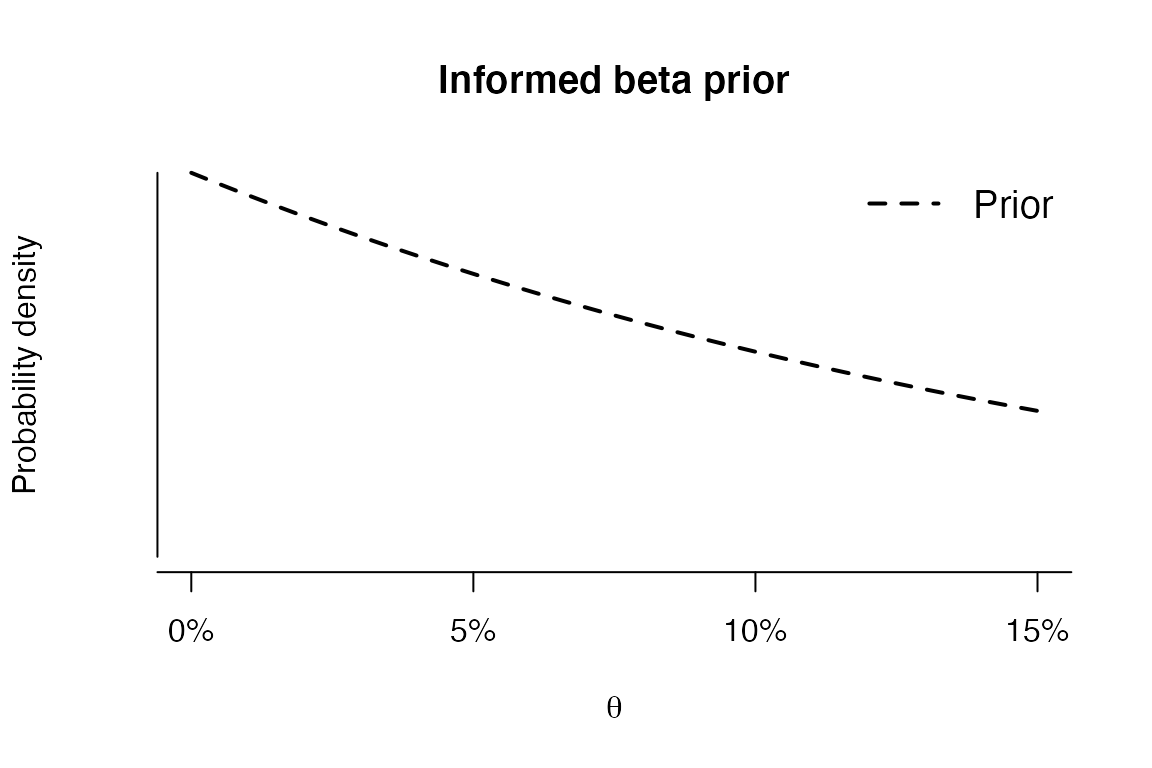
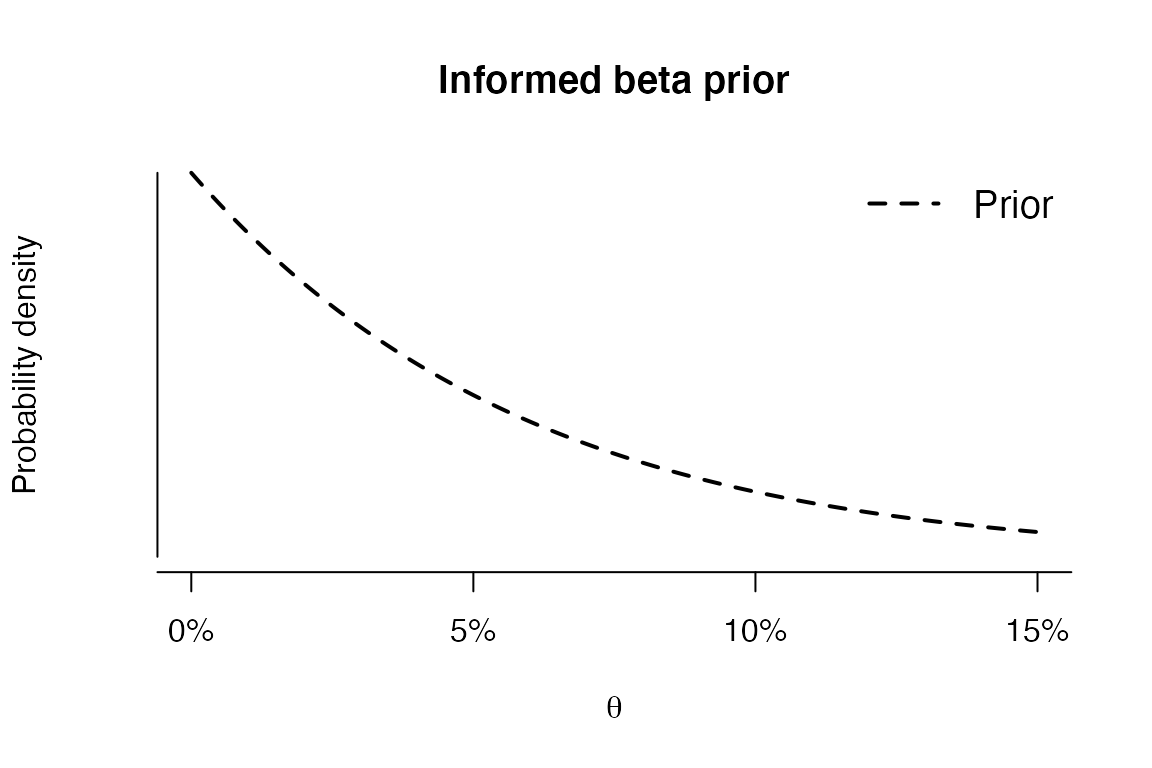
Built site for jfa: 0.5.0@de6957b

diff --git a/articles/priorDistributions.html b/articles/priorDistributions.html
@@ -114,9 +114,10 @@
 <span class="va">likelihood</span> <span class="op">&lt;-</span> <span class="st">"binomial"</span>  <span class="co"># Binomial likelihood</span>
 <span class="va">materiality</span> <span class="op">&lt;-</span> <span class="fl">0.05</span>       <span class="co"># Performance materiality of 5%</span>
 <span class="va">expectedError</span> <span class="op">&lt;-</span> <span class="fl">0</span>        <span class="co"># Zero errors expected in sample</span></code></pre></div>
-<div id="no-explicit-information-method-none-default" class="section level3">
+<div id="default-no-explicit-information-method-none" class="section level3">
 <h3 class="hasAnchor">
-<a href="#no-explicit-information-method-none-default" class="anchor"></a>No explicit information (<code>method = "none"</code>; default)</h3>
+<a href="#default-no-explicit-information-method-none" class="anchor"></a>[Default] No explicit information (<code>method = "none"</code>)</h3>
+<p>You can refrain from incorporating explicit information in the prior distribution, and still use Bayesian statistics, using <code>method = none</code>. As an example, the code below incorporates no explicit information into a prior distribution</p>
 <div class="sourceCode" id="cb2"><pre class="downlit sourceCode r">
 <code class="sourceCode R"><span class="va">prior1</span> <span class="op">&lt;-</span> <span class="fu"><a href="../reference/auditPrior.html">auditPrior</a></span><span class="op">(</span>confidence <span class="op">=</span> <span class="va">confidence</span>, likelihood <span class="op">=</span> <span class="va">likelihood</span>, expectedError <span class="op">=</span> <span class="va">expectedError</span>,
                      materiality <span class="op">=</span> <span class="va">materiality</span>, method <span class="op">=</span> <span class="st">"none"</span><span class="op">)</span>
@@ -145,6 +146,7 @@
 ## # Mean:                    0.5 
 ## # Median:                  0.5 
 ## # ------------------------------------------------------------</code></pre>
+<p>You can visually inspect the prior distribution using the <code><a href="https://rdrr.io/r/graphics/plot.default.html">plot()</a></code> function.</p>
 <div class="sourceCode" id="cb4"><pre class="downlit sourceCode r">
 <code class="sourceCode R"><span class="fu"><a href="https://rdrr.io/r/graphics/plot.default.html">plot</a></span><span class="op">(</span><span class="va">prior1</span><span class="op">)</span></code></pre></div>
 <p><img src="priorDistributions_files/figure-html/unnamed-chunk-3-1.png" width="576"></p>
@@ -152,9 +154,10 @@
 <div id="audit-risk-model-method-arm" class="section level3">
 <h3 class="hasAnchor">
 <a href="#audit-risk-model-method-arm" class="anchor"></a>Audit Risk Model (<code>method = "arm"</code>)</h3>
+<p>You can incorporate the risk assessments from the Audit Risk Model (inherent risk and internal control risk) using <code>method = "arm</code> in combination with the <code>ir</code> and <code>cr</code> arguments. As an example, the code below incorporates the information that the inherent risk is equal to 90% and that the internal control risk is equal to 60% into a prior distribution.</p>
 <div class="sourceCode" id="cb5"><pre class="downlit sourceCode r">
 <code class="sourceCode R"><span class="va">prior2</span> <span class="op">&lt;-</span> <span class="fu"><a href="../reference/auditPrior.html">auditPrior</a></span><span class="op">(</span>confidence <span class="op">=</span> <span class="va">confidence</span>, likelihood <span class="op">=</span> <span class="va">likelihood</span>, expectedError <span class="op">=</span> <span class="va">expectedError</span>,
-                     materiality <span class="op">=</span> <span class="va">materiality</span>, method <span class="op">=</span> <span class="st">"arm"</span>, ir <span class="op">=</span> <span class="fl">1</span>, cr <span class="op">=</span> <span class="fl">0.6</span><span class="op">)</span>
+                     materiality <span class="op">=</span> <span class="va">materiality</span>, method <span class="op">=</span> <span class="st">"arm"</span>, ir <span class="op">=</span> <span class="fl">0.9</span>, cr <span class="op">=</span> <span class="fl">0.6</span><span class="op">)</span>
 <span class="va">prior2</span></code></pre></div>
 <pre><code>## # ------------------------------------------------------------
 ## #         jfa Prior Distribution Summary (Bayesian)
@@ -164,22 +167,23 @@
 ## # Confidence:              95%    
 ## # Expected sample errors:  0%       
 ## # Likelihood:              binomial 
-## # Specifics:               Inherent risk = 1; Internal control risk = 0.6; Detection risk = 0.08 
+## # Specifics:               Inherent risk = 0.9; Internal control risk = 0.6; Detection risk = 0.09 
 ## # ------------------------------------------------------------
 ## # Output: 
 ## #
-## # Prior distribution:      beta(α = 1, β = 11) 
-## # Implicit sample size:    10 
+## # Prior distribution:      beta(α = 1, β = 13) 
+## # Implicit sample size:    12 
 ## # Implicit errors:         0 
 ## # ------------------------------------------------------------
 ## # Statistics: 
 ## #
-## # Upper bound:             0.24 
-## # Precision:               0.24 
+## # Upper bound:             0.21 
+## # Precision:               0.21 
 ## # Mode:                    0 
-## # Mean:                    0.08 
-## # Median:                  0.06 
+## # Mean:                    0.07 
+## # Median:                  0.05 
 ## # ------------------------------------------------------------</code></pre>
+<p>You can visually inspect the prior distribution using the <code><a href="https://rdrr.io/r/graphics/plot.default.html">plot()</a></code> function.</p>
 <div class="sourceCode" id="cb7"><pre class="downlit sourceCode r">
 <code class="sourceCode R"><span class="fu"><a href="https://rdrr.io/r/graphics/plot.default.html">plot</a></span><span class="op">(</span><span class="va">prior2</span><span class="op">)</span></code></pre></div>
 <p><img src="priorDistributions_files/figure-html/unnamed-chunk-5-1.png" width="576"></p>
@@ -187,6 +191,8 @@
 <div id="equal-prior-probabilities-method-median" class="section level3">
 <h3 class="hasAnchor">
 <a href="#equal-prior-probabilities-method-median" class="anchor"></a>Equal prior probabilities (<code>method = "median"</code>)</h3>
+<p>You can incorporate the assumption that tolerable misstatement is equally likely as intolerable misstatement using <code>method = "median"</code>. As an example, the code below incorporates this assumption into a prior distribution.</p>
+<p><em>Note: This method requires that you specify a value for the <code>materiality</code>.</em></p>
 <div class="sourceCode" id="cb8"><pre class="downlit sourceCode r">
 <code class="sourceCode R"><span class="va">prior3</span> <span class="op">&lt;-</span> <span class="fu"><a href="../reference/auditPrior.html">auditPrior</a></span><span class="op">(</span>confidence <span class="op">=</span> <span class="va">confidence</span>, likelihood <span class="op">=</span> <span class="va">likelihood</span>, expectedError <span class="op">=</span> <span class="va">expectedError</span>,
                      materiality <span class="op">=</span> <span class="va">materiality</span>, method <span class="op">=</span> <span class="st">"median"</span><span class="op">)</span>
@@ -215,6 +221,7 @@
 ## # Mean:                    0.07 
 ## # Median:                  0.05 
 ## # ------------------------------------------------------------</code></pre>
+<p>You can visually inspect the prior distribution using the <code><a href="https://rdrr.io/r/graphics/plot.default.html">plot()</a></code> function.</p>
 <div class="sourceCode" id="cb10"><pre class="downlit sourceCode r">
 <code class="sourceCode R"><span class="fu"><a href="https://rdrr.io/r/graphics/plot.default.html">plot</a></span><span class="op">(</span><span class="va">prior3</span><span class="op">)</span></code></pre></div>
 <p><img src="priorDistributions_files/figure-html/unnamed-chunk-7-1.png" width="576"></p>
@@ -222,9 +229,11 @@
 <div id="custom-prior-probabilities-method-hypotheses" class="section level3">
 <h3 class="hasAnchor">
 <a href="#custom-prior-probabilities-method-hypotheses" class="anchor"></a>Custom prior probabilities (<code>method = "hypotheses"</code>)</h3>
+<p>You can assign custom probabilities to the hypothesis of tolerable misstatement (using <code>pHmin</code>) and/or the hypotheses of intolerable misstatement (using <code>pHplus</code>) in combination with <code>method = "hypotheses</code>. As an example, the code below incorporates the information that the hypothesis of tolerable misstatement has a probability of 60% into a prior distribution.</p>
+<p><em>Note: This method requires that you specify a value for the <code>materiality</code> and that the expected errors are zero.</em></p>
 <div class="sourceCode" id="cb11"><pre class="downlit sourceCode r">
 <code class="sourceCode R"><span class="va">prior4</span> <span class="op">&lt;-</span> <span class="fu"><a href="../reference/auditPrior.html">auditPrior</a></span><span class="op">(</span>confidence <span class="op">=</span> <span class="va">confidence</span>, likelihood <span class="op">=</span> <span class="va">likelihood</span>, expectedError <span class="op">=</span> <span class="va">expectedError</span>,
-                     materiality <span class="op">=</span> <span class="va">materiality</span>, method <span class="op">=</span> <span class="st">"hypotheses"</span>, pHmin <span class="op">=</span> <span class="fl">0.3</span><span class="op">)</span>
+                     materiality <span class="op">=</span> <span class="va">materiality</span>, method <span class="op">=</span> <span class="st">"hypotheses"</span>, pHmin <span class="op">=</span> <span class="fl">0.6</span><span class="op">)</span>
 <span class="va">prior4</span></code></pre></div>
 <pre><code>## # ------------------------------------------------------------
 ## #         jfa Prior Distribution Summary (Bayesian)
@@ -234,22 +243,23 @@
 ## # Confidence:              95%    
 ## # Expected sample errors:  0%       
 ## # Likelihood:              binomial 
-## # Specifics:               p(Θ &lt; 0.05) = 0.3; p(Θ &gt; 0.05) = 0.7 
+## # Specifics:               p(Θ &lt; 0.05) = 0.6; p(Θ &gt; 0.05) = 0.4 
 ## # ------------------------------------------------------------
 ## # Output: 
 ## #
-## # Prior distribution:      beta(α = 1, β = 6.954) 
-## # Implicit sample size:    5.95 
+## # Prior distribution:      beta(α = 1, β = 17.864) 
+## # Implicit sample size:    16.86 
 ## # Implicit errors:         0 
 ## # ------------------------------------------------------------
 ## # Statistics: 
 ## #
-## # Upper bound:             0.35 
-## # Precision:               0.35 
+## # Upper bound:             0.15 
+## # Precision:               0.15 
 ## # Mode:                    0 
-## # Mean:                    0.13 
-## # Median:                  0.09 
+## # Mean:                    0.05 
+## # Median:                  0.04 
 ## # ------------------------------------------------------------</code></pre>
+<p>You can visually inspect the prior distribution using the <code><a href="https://rdrr.io/r/graphics/plot.default.html">plot()</a></code> function.</p>
 <div class="sourceCode" id="cb13"><pre class="downlit sourceCode r">
 <code class="sourceCode R"><span class="fu"><a href="https://rdrr.io/r/graphics/plot.default.html">plot</a></span><span class="op">(</span><span class="va">prior4</span><span class="op">)</span></code></pre></div>
 <p><img src="priorDistributions_files/figure-html/unnamed-chunk-9-1.png" width="576"></p>
@@ -257,6 +267,7 @@
 <div id="earlier-sample-method-sample" class="section level3">
 <h3 class="hasAnchor">
 <a href="#earlier-sample-method-sample" class="anchor"></a>Earlier sample (<code>method = "sample"</code>)</h3>
+<p>You can incorporate information from an earlier sample into the prior distribution using <code>method = "sample</code> in combination with <code>sampleN</code> and <code>sampleK</code>. As an example, the code below incorporates the information from an earlier sample of 30 transactions, in which 0 misstatements were found, into a prior distribution.</p>
 <div class="sourceCode" id="cb14"><pre class="downlit sourceCode r">
 <code class="sourceCode R"><span class="va">prior5</span> <span class="op">&lt;-</span> <span class="fu"><a href="../reference/auditPrior.html">auditPrior</a></span><span class="op">(</span>confidence <span class="op">=</span> <span class="va">confidence</span>, likelihood <span class="op">=</span> <span class="va">likelihood</span>, expectedError <span class="op">=</span> <span class="va">expectedError</span>,
                      materiality <span class="op">=</span> <span class="va">materiality</span>, method <span class="op">=</span> <span class="st">"sample"</span>, sampleN <span class="op">=</span> <span class="fl">30</span>, sampleK <span class="op">=</span> <span class="fl">0</span><span class="op">)</span>
@@ -285,6 +296,7 @@
 ## # Mean:                    0.03 
 ## # Median:                  0.02 
 ## # ------------------------------------------------------------</code></pre>
+<p>You can visually inspect the prior distribution using the <code><a href="https://rdrr.io/r/graphics/plot.default.html">plot()</a></code> function.</p>
 <div class="sourceCode" id="cb16"><pre class="downlit sourceCode r">
 <code class="sourceCode R"><span class="fu"><a href="https://rdrr.io/r/graphics/plot.default.html">plot</a></span><span class="op">(</span><span class="va">prior5</span><span class="op">)</span></code></pre></div>
 <p><img src="priorDistributions_files/figure-html/unnamed-chunk-11-1.png" width="576"></p>
@@ -292,9 +304,10 @@
 <div id="weighted-earlier-sample-method-factor" class="section level3">
 <h3 class="hasAnchor">
 <a href="#weighted-earlier-sample-method-factor" class="anchor"></a>Weighted earlier sample (<code>method = "factor"</code>)</h3>
+<p>You can incorporate information from last years results, weighted by a factor, into the prior distribution using <code>method = "factor</code> in combination with <code>sampleN</code> and <code>sampleK</code>. As an example, the code below incorporates the information from a last years results (a sample of 58 transactions in which 0 misstatements were found), weighted by a factor 0.7, into a prior distribution.</p>
 <div class="sourceCode" id="cb17"><pre class="downlit sourceCode r">
 <code class="sourceCode R"><span class="va">prior6</span> <span class="op">&lt;-</span> <span class="fu"><a href="../reference/auditPrior.html">auditPrior</a></span><span class="op">(</span>confidence <span class="op">=</span> <span class="va">confidence</span>, likelihood <span class="op">=</span> <span class="va">likelihood</span>, expectedError <span class="op">=</span> <span class="va">expectedError</span>,
-                     materiality <span class="op">=</span> <span class="va">materiality</span>, method <span class="op">=</span> <span class="st">"factor"</span>, sampleN <span class="op">=</span> <span class="fl">50</span>, sampleK <span class="op">=</span> <span class="fl">0</span>, factor <span class="op">=</span> <span class="fl">0.6</span><span class="op">)</span>
+                     materiality <span class="op">=</span> <span class="va">materiality</span>, method <span class="op">=</span> <span class="st">"factor"</span>, sampleN <span class="op">=</span> <span class="fl">58</span>, sampleK <span class="op">=</span> <span class="fl">0</span>, factor <span class="op">=</span> <span class="fl">0.7</span><span class="op">)</span>
 <span class="va">prior6</span></code></pre></div>
 <pre><code>## # ------------------------------------------------------------
 ## #         jfa Prior Distribution Summary (Bayesian)
@@ -304,22 +317,23 @@
 ## # Confidence:              95%    
 ## # Expected sample errors:  0%       
 ## # Likelihood:              binomial 
-## # Specifics:               Earlier sample of 50 transactions with 0 errors weighted by 0.6 
+## # Specifics:               Earlier sample of 58 transactions with 0 errors weighted by 0.7 
 ## # ------------------------------------------------------------
 ## # Output: 
 ## #
-## # Prior distribution:      beta(α = 1, β = 31) 
-## # Implicit sample size:    30 
+## # Prior distribution:      beta(α = 1, β = 41.6) 
+## # Implicit sample size:    40.6 
 ## # Implicit errors:         0 
 ## # ------------------------------------------------------------
 ## # Statistics: 
 ## #
-## # Upper bound:             0.09 
-## # Precision:               0.09 
+## # Upper bound:             0.07 
+## # Precision:               0.07 
 ## # Mode:                    0 
-## # Mean:                    0.03 
+## # Mean:                    0.02 
 ## # Median:                  0.02 
 ## # ------------------------------------------------------------</code></pre>
+<p>You can visually inspect the prior distribution using the <code><a href="https://rdrr.io/r/graphics/plot.default.html">plot()</a></code> function.</p>
 <div class="sourceCode" id="cb19"><pre class="downlit sourceCode r">
 <code class="sourceCode R"><span class="fu"><a href="https://rdrr.io/r/graphics/plot.default.html">plot</a></span><span class="op">(</span><span class="va">prior6</span><span class="op">)</span></code></pre></div>
 <p><img src="priorDistributions_files/figure-html/unnamed-chunk-13-1.png" width="576"></p>
@@ -328,41 +342,25 @@
 <div id="comparing-efficiency-through-required-sample-sizes" class="section level2">
 <h2 class="hasAnchor">
 <a href="#comparing-efficiency-through-required-sample-sizes" class="anchor"></a>Comparing efficiency through required sample sizes</h2>
-<p>To illustrate how the prior distribution can facilitate a more efficient audit, the table below lists the required sample sizes for the created priors.</p>
-<div class="sourceCode" id="cb20"><pre class="downlit sourceCode r">
-<code class="sourceCode R"><span class="va">s1</span> <span class="op">&lt;-</span> <span class="fu"><a href="../reference/planning.html">planning</a></span><span class="op">(</span>confidence <span class="op">=</span> <span class="va">confidence</span>, expectedError <span class="op">=</span> <span class="va">expectedError</span>, likelihood <span class="op">=</span> <span class="va">likelihood</span>, 
-               materiality <span class="op">=</span> <span class="va">materiality</span>, prior <span class="op">=</span> <span class="va">prior1</span><span class="op">)</span><span class="op">$</span><span class="va">sampleSize</span>
-<span class="va">s2</span> <span class="op">&lt;-</span> <span class="fu"><a href="../reference/planning.html">planning</a></span><span class="op">(</span>confidence <span class="op">=</span> <span class="va">confidence</span>, expectedError <span class="op">=</span> <span class="va">expectedError</span>, likelihood <span class="op">=</span> <span class="va">likelihood</span>, 
-               materiality <span class="op">=</span> <span class="va">materiality</span>, prior <span class="op">=</span> <span class="va">prior2</span><span class="op">)</span><span class="op">$</span><span class="va">sampleSize</span>
-<span class="va">s3</span> <span class="op">&lt;-</span> <span class="fu"><a href="../reference/planning.html">planning</a></span><span class="op">(</span>confidence <span class="op">=</span> <span class="va">confidence</span>, expectedError <span class="op">=</span> <span class="va">expectedError</span>, likelihood <span class="op">=</span> <span class="va">likelihood</span>, 
-               materiality <span class="op">=</span> <span class="va">materiality</span>, prior <span class="op">=</span> <span class="va">prior3</span><span class="op">)</span><span class="op">$</span><span class="va">sampleSize</span>
-<span class="va">s4</span> <span class="op">&lt;-</span> <span class="fu"><a href="../reference/planning.html">planning</a></span><span class="op">(</span>confidence <span class="op">=</span> <span class="va">confidence</span>, expectedError <span class="op">=</span> <span class="va">expectedError</span>, likelihood <span class="op">=</span> <span class="va">likelihood</span>, 
-               materiality <span class="op">=</span> <span class="va">materiality</span>, prior <span class="op">=</span> <span class="va">prior4</span><span class="op">)</span><span class="op">$</span><span class="va">sampleSize</span>
-<span class="va">s5</span> <span class="op">&lt;-</span> <span class="fu"><a href="../reference/planning.html">planning</a></span><span class="op">(</span>confidence <span class="op">=</span> <span class="va">confidence</span>, expectedError <span class="op">=</span> <span class="va">expectedError</span>, likelihood <span class="op">=</span> <span class="va">likelihood</span>, 
-               materiality <span class="op">=</span> <span class="va">materiality</span>, prior <span class="op">=</span> <span class="va">prior5</span><span class="op">)</span><span class="op">$</span><span class="va">sampleSize</span>
-<span class="va">s6</span> <span class="op">&lt;-</span> <span class="fu"><a href="../reference/planning.html">planning</a></span><span class="op">(</span>confidence <span class="op">=</span> <span class="va">confidence</span>, expectedError <span class="op">=</span> <span class="va">expectedError</span>, likelihood <span class="op">=</span> <span class="va">likelihood</span>, 
-               materiality <span class="op">=</span> <span class="va">materiality</span>, prior <span class="op">=</span> <span class="va">prior6</span><span class="op">)</span><span class="op">$</span><span class="va">sampleSize</span>
-
-<span class="fu">knitr</span><span class="fu">::</span><span class="fu"><a href="https://rdrr.io/pkg/knitr/man/kable.html">kable</a></span><span class="op">(</span><span class="fu"><a href="https://rdrr.io/r/base/data.frame.html">data.frame</a></span><span class="op">(</span><span class="st">"Prior1"</span> <span class="op">=</span> <span class="va">s1</span>, <span class="st">"Prior2"</span> <span class="op">=</span> <span class="va">s2</span>, <span class="st">"Prior3"</span> <span class="op">=</span> <span class="va">s3</span>, <span class="st">"Prior4"</span> <span class="op">=</span> <span class="va">s4</span>, 
-                  <span class="st">"Prior5"</span> <span class="op">=</span> <span class="va">s5</span>, <span class="st">"Prior6"</span> <span class="op">=</span> <span class="va">s6</span>, row.names <span class="op">=</span> <span class="st">"Required sample size"</span><span class="op">)</span><span class="op">)</span></code></pre></div>
+<p>To illustrate how the prior distribution can facilitate a more efficient audit, the table below lists the required sample sizes for the created priors after calling <code><a href="../reference/planning.html">planning(confidence = confidence, expectedError = expectedError, likelihood = likelihood, materiality = materiality, prior = X)</a></code>, where <code>X</code> is the object returned by the <code><a href="../reference/auditPrior.html">auditPrior()</a></code> function.</p>
 <table class="table">
 <thead><tr class="header">
 <th align="left"></th>
-<th align="right">Prior1</th>
-<th align="right">Prior2</th>
-<th align="right">Prior3</th>
-<th align="right">Prior4</th>
-<th align="right">Prior5</th>
-<th align="right">Prior6</th>
+<th align="right">none</th>
+<th align="right">arm</th>
+<th align="right">median</th>
+<th align="right">hypotheses</th>
+<th align="right">sample</th>
+<th align="right">factor</th>
 </tr></thead>
 <tbody><tr class="odd">
 <td align="left">Required sample size</td>
 <td align="right">58</td>
-<td align="right">48</td>
+<td align="right">46</td>
 <td align="right">45</td>
-<td align="right">52</td>
+<td align="right">41</td>
 <td align="right">28</td>
-<td align="right">28</td>
+<td align="right">17</td>
 </tr></tbody>
 </table>
 </div>
